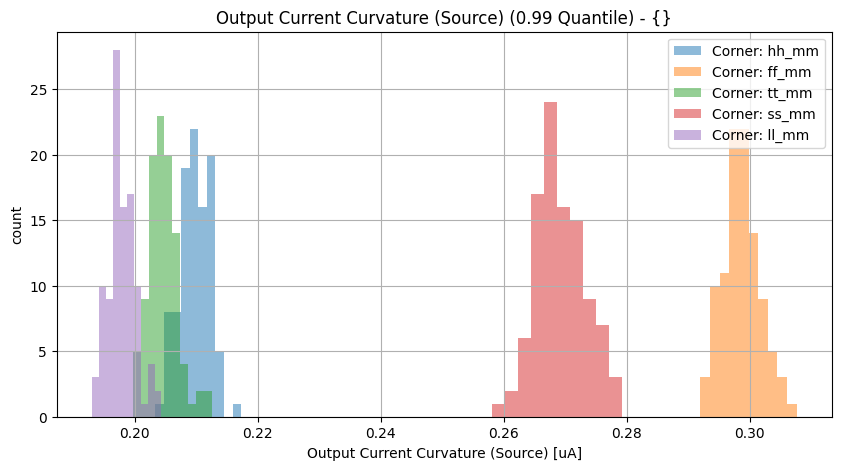
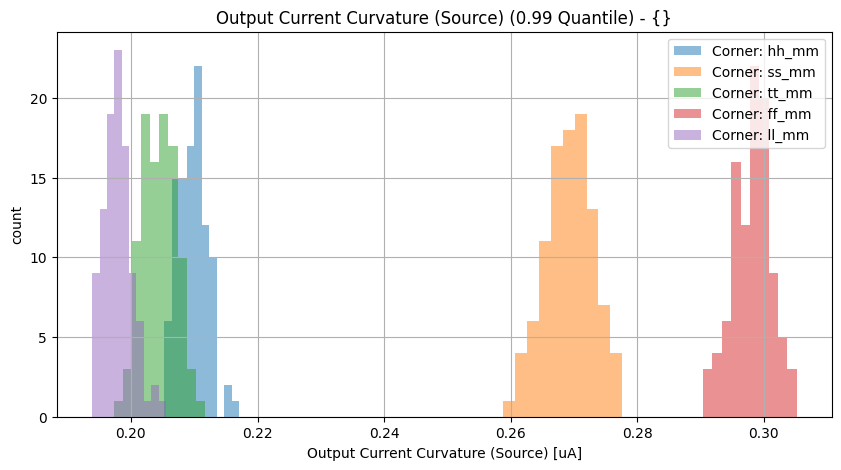
Jenkins update

diff --git a/vthref/vthref/Readme.md b/vthref/vthref/Readme.md
@@ -1,10 +1,10 @@
-23.02.2022, 19:07:27
+23.02.2022, 19:21:28
 
 # Vth Current Reference
 
-10 uA current reference.
+10 uA current reference with source- and sink-port.
 
-![placeholder](resources/img-placeholder.png "Placeholder")
+![vthref](resources/vthref.png "vthref")
 
 <br>
 
@@ -30,8 +30,8 @@ LVS-state: Netlists match uniquely.<br>
 
 | Parameter | Min (Spec. / Sim.) |      | Max (Sim. / Spec.) | Unit | Checks (total/pass/fail/NaN) | Comment |
 | :-------- | -----------------: | :--: | :----------------- | :--- | :--------------------------- | ------- |
-| Output Current Curvature (Sink) | 0.0 / 0.191 | <svg height="20" width="150"><polyline points="3.0,3,3.0,17,147.0,17,147.0,3" style="fill:none;stroke:gray;stroke-width:1" /><polyline points="75.0,10.0,75.0,17" style="fill:none;stroke:gray;stroke-width:1" /><polyline points="30.524289600000003,10.0,47.5849344,10.0" style="stroke:green;stroke-width:2" /><circle cx="30.524289600000003" cy="10.0" r="3" style="fill:green;stroke:green;stroke-width:0" /><circle cx="47.5849344" cy="10.0" r="3" style="fill:green;stroke:green;stroke-width:0" /></svg> | 0.31 / 1.0 | uA | 500/100.0%/0.0%/0.0% |  |
-| Output Current Curvature (Source) | 0.0 / 0.193 | <svg height="20" width="150"><polyline points="3.0,3,3.0,17,147.0,17,147.0,3" style="fill:none;stroke:gray;stroke-width:1" /><polyline points="75.0,10.0,75.0,17" style="fill:none;stroke:gray;stroke-width:1" /><polyline points="30.8026704,10.0,47.295278399999994,10.0" style="stroke:green;stroke-width:2" /><circle cx="30.8026704" cy="10.0" r="3" style="fill:green;stroke:green;stroke-width:0" /><circle cx="47.295278399999994" cy="10.0" r="3" style="fill:green;stroke:green;stroke-width:0" /></svg> | 0.308 / 1.0 | uA | 500/100.0%/0.0%/0.0% |  |
+| Output Current Curvature (Sink) | 0.0 / 0.191 | <svg height="20" width="150"><polyline points="3.0,3,3.0,17,147.0,17,147.0,3" style="fill:none;stroke:gray;stroke-width:1" /><polyline points="75.0,10.0,75.0,17" style="fill:none;stroke:gray;stroke-width:1" /><polyline points="30.466344000000003,10.0,47.2623312,10.0" style="stroke:green;stroke-width:2" /><circle cx="30.466344000000003" cy="10.0" r="3" style="fill:green;stroke:green;stroke-width:0" /><circle cx="47.2623312" cy="10.0" r="3" style="fill:green;stroke:green;stroke-width:0" /></svg> | 0.307 / 1.0 | uA | 500/100.0%/0.0%/0.0% |  |
+| Output Current Curvature (Source) | 0.0 / 0.194 | <svg height="20" width="150"><polyline points="3.0,3,3.0,17,147.0,17,147.0,3" style="fill:none;stroke:gray;stroke-width:1" /><polyline points="75.0,10.0,75.0,17" style="fill:none;stroke:gray;stroke-width:1" /><polyline points="30.917323200000002,10.0,46.9452864,10.0" style="stroke:green;stroke-width:2" /><circle cx="30.917323200000002" cy="10.0" r="3" style="fill:green;stroke:green;stroke-width:0" /><circle cx="46.9452864" cy="10.0" r="3" style="fill:green;stroke:green;stroke-width:0" /></svg> | 0.305 / 1.0 | uA | 500/100.0%/0.0%/0.0% |  |
 
 <br>
 
@@ -48,8 +48,8 @@ LVS-state: Netlists match uniquely.<br>
 
 | Parameter | Min (Spec. / Sim.) |      | Max (Sim. / Spec.) | Unit | Checks (total/pass/fail/NaN) | Comment |
 | :-------- | -----------------: | :--: | :----------------- | :--- | :--------------------------- | ------- |
-| Output Current Curvature (Sink) | 0.0 / 0.194 | <svg height="20" width="150"><polyline points="3.0,3,3.0,17,147.0,17,147.0,3" style="fill:none;stroke:gray;stroke-width:1" /><polyline points="75.0,10.0,75.0,17" style="fill:none;stroke:gray;stroke-width:1" /><polyline points="30.8878176,10.0,46.1965728,10.0" style="stroke:green;stroke-width:2" /><circle cx="30.8878176" cy="10.0" r="3" style="fill:green;stroke:green;stroke-width:0" /><circle cx="46.1965728" cy="10.0" r="3" style="fill:green;stroke:green;stroke-width:0" /></svg> | 0.3 / 1.0 | uA | 500/100.0%/0.0%/0.0% |  |
-| Output Current Curvature (Source) | 0.0 / 0.196 | <svg height="20" width="150"><polyline points="3.0,3,3.0,17,147.0,17,147.0,3" style="fill:none;stroke:gray;stroke-width:1" /><polyline points="75.0,10.0,75.0,17" style="fill:none;stroke:gray;stroke-width:1" /><polyline points="31.236887999999997,10.0,48.0748224,10.0" style="stroke:green;stroke-width:2" /><circle cx="31.236887999999997" cy="10.0" r="3" style="fill:green;stroke:green;stroke-width:0" /><circle cx="48.0748224" cy="10.0" r="3" style="fill:green;stroke:green;stroke-width:0" /></svg> | 0.313 / 1.0 | uA | 500/100.0%/0.0%/0.0% |  |
+| Output Current Curvature (Sink) | 0.0 / 0.193 | <svg height="20" width="150"><polyline points="3.0,3,3.0,17,147.0,17,147.0,3" style="fill:none;stroke:gray;stroke-width:1" /><polyline points="75.0,10.0,75.0,17" style="fill:none;stroke:gray;stroke-width:1" /><polyline points="30.8618112,10.0,46.4695968,10.0" style="stroke:green;stroke-width:2" /><circle cx="30.8618112" cy="10.0" r="3" style="fill:green;stroke:green;stroke-width:0" /><circle cx="46.4695968" cy="10.0" r="3" style="fill:green;stroke:green;stroke-width:0" /></svg> | 0.302 / 1.0 | uA | 500/100.0%/0.0%/0.0% |  |
+| Output Current Curvature (Source) | 0.0 / 0.198 | <svg height="20" width="150"><polyline points="3.0,3,3.0,17,147.0,17,147.0,3" style="fill:none;stroke:gray;stroke-width:1" /><polyline points="75.0,10.0,75.0,17" style="fill:none;stroke:gray;stroke-width:1" /><polyline points="31.5381936,10.0,48.2306592,10.0" style="stroke:green;stroke-width:2" /><circle cx="31.5381936" cy="10.0" r="3" style="fill:green;stroke:green;stroke-width:0" /><circle cx="48.2306592" cy="10.0" r="3" style="fill:green;stroke:green;stroke-width:0" /></svg> | 0.314 / 1.0 | uA | 500/100.0%/0.0%/0.0% |  |
 
 <br>
 

diff --git a/vthref/vthref/specReport.md b/vthref/vthref/specReport.md
@@ -12,8 +12,8 @@
 
 | Parameter | Min (Spec. / Sim.) |      | Max (Sim. / Spec.) | Unit | Checks (total/pass/fail/NaN) | Comment |
 | :-------- | -----------------: | :--: | :----------------- | :--- | :--------------------------- | ------- |
-| Output Current Curvature (Sink) | 0.0 / 0.191 | <svg height="20" width="150"><polyline points="3.0,3,3.0,17,147.0,17,147.0,3" style="fill:none;stroke:gray;stroke-width:1" /><polyline points="75.0,10.0,75.0,17" style="fill:none;stroke:gray;stroke-width:1" /><polyline points="30.524289600000003,10.0,47.5849344,10.0" style="stroke:green;stroke-width:2" /><circle cx="30.524289600000003" cy="10.0" r="3" style="fill:green;stroke:green;stroke-width:0" /><circle cx="47.5849344" cy="10.0" r="3" style="fill:green;stroke:green;stroke-width:0" /></svg> | 0.31 / 1.0 | uA | 500/100.0%/0.0%/0.0% |  |
-| Output Current Curvature (Source) | 0.0 / 0.193 | <svg height="20" width="150"><polyline points="3.0,3,3.0,17,147.0,17,147.0,3" style="fill:none;stroke:gray;stroke-width:1" /><polyline points="75.0,10.0,75.0,17" style="fill:none;stroke:gray;stroke-width:1" /><polyline points="30.8026704,10.0,47.295278399999994,10.0" style="stroke:green;stroke-width:2" /><circle cx="30.8026704" cy="10.0" r="3" style="fill:green;stroke:green;stroke-width:0" /><circle cx="47.295278399999994" cy="10.0" r="3" style="fill:green;stroke:green;stroke-width:0" /></svg> | 0.308 / 1.0 | uA | 500/100.0%/0.0%/0.0% |  |
+| Output Current Curvature (Sink) | 0.0 / 0.191 | <svg height="20" width="150"><polyline points="3.0,3,3.0,17,147.0,17,147.0,3" style="fill:none;stroke:gray;stroke-width:1" /><polyline points="75.0,10.0,75.0,17" style="fill:none;stroke:gray;stroke-width:1" /><polyline points="30.466344000000003,10.0,47.2623312,10.0" style="stroke:green;stroke-width:2" /><circle cx="30.466344000000003" cy="10.0" r="3" style="fill:green;stroke:green;stroke-width:0" /><circle cx="47.2623312" cy="10.0" r="3" style="fill:green;stroke:green;stroke-width:0" /></svg> | 0.307 / 1.0 | uA | 500/100.0%/0.0%/0.0% |  |
+| Output Current Curvature (Source) | 0.0 / 0.194 | <svg height="20" width="150"><polyline points="3.0,3,3.0,17,147.0,17,147.0,3" style="fill:none;stroke:gray;stroke-width:1" /><polyline points="75.0,10.0,75.0,17" style="fill:none;stroke:gray;stroke-width:1" /><polyline points="30.917323200000002,10.0,46.9452864,10.0" style="stroke:green;stroke-width:2" /><circle cx="30.917323200000002" cy="10.0" r="3" style="fill:green;stroke:green;stroke-width:0" /><circle cx="46.9452864" cy="10.0" r="3" style="fill:green;stroke:green;stroke-width:0" /></svg> | 0.305 / 1.0 | uA | 500/100.0%/0.0%/0.0% |  |
 
 <br>
 
@@ -30,7 +30,7 @@
 
 | Parameter | Min (Spec. / Sim.) |      | Max (Sim. / Spec.) | Unit | Checks (total/pass/fail/NaN) | Comment |
 | :-------- | -----------------: | :--: | :----------------- | :--- | :--------------------------- | ------- |
-| Output Current Curvature (Sink) | 0.0 / 0.194 | <svg height="20" width="150"><polyline points="3.0,3,3.0,17,147.0,17,147.0,3" style="fill:none;stroke:gray;stroke-width:1" /><polyline points="75.0,10.0,75.0,17" style="fill:none;stroke:gray;stroke-width:1" /><polyline points="30.8878176,10.0,46.1965728,10.0" style="stroke:green;stroke-width:2" /><circle cx="30.8878176" cy="10.0" r="3" style="fill:green;stroke:green;stroke-width:0" /><circle cx="46.1965728" cy="10.0" r="3" style="fill:green;stroke:green;stroke-width:0" /></svg> | 0.3 / 1.0 | uA | 500/100.0%/0.0%/0.0% |  |
-| Output Current Curvature (Source) | 0.0 / 0.196 | <svg height="20" width="150"><polyline points="3.0,3,3.0,17,147.0,17,147.0,3" style="fill:none;stroke:gray;stroke-width:1" /><polyline points="75.0,10.0,75.0,17" style="fill:none;stroke:gray;stroke-width:1" /><polyline points="31.236887999999997,10.0,48.0748224,10.0" style="stroke:green;stroke-width:2" /><circle cx="31.236887999999997" cy="10.0" r="3" style="fill:green;stroke:green;stroke-width:0" /><circle cx="48.0748224" cy="10.0" r="3" style="fill:green;stroke:green;stroke-width:0" /></svg> | 0.313 / 1.0 | uA | 500/100.0%/0.0%/0.0% |  |
+| Output Current Curvature (Sink) | 0.0 / 0.193 | <svg height="20" width="150"><polyline points="3.0,3,3.0,17,147.0,17,147.0,3" style="fill:none;stroke:gray;stroke-width:1" /><polyline points="75.0,10.0,75.0,17" style="fill:none;stroke:gray;stroke-width:1" /><polyline points="30.8618112,10.0,46.4695968,10.0" style="stroke:green;stroke-width:2" /><circle cx="30.8618112" cy="10.0" r="3" style="fill:green;stroke:green;stroke-width:0" /><circle cx="46.4695968" cy="10.0" r="3" style="fill:green;stroke:green;stroke-width:0" /></svg> | 0.302 / 1.0 | uA | 500/100.0%/0.0%/0.0% |  |
+| Output Current Curvature (Source) | 0.0 / 0.198 | <svg height="20" width="150"><polyline points="3.0,3,3.0,17,147.0,17,147.0,3" style="fill:none;stroke:gray;stroke-width:1" /><polyline points="75.0,10.0,75.0,17" style="fill:none;stroke:gray;stroke-width:1" /><polyline points="31.5381936,10.0,48.2306592,10.0" style="stroke:green;stroke-width:2" /><circle cx="31.5381936" cy="10.0" r="3" style="fill:green;stroke:green;stroke-width:0" /><circle cx="48.2306592" cy="10.0" r="3" style="fill:green;stroke:green;stroke-width:0" /></svg> | 0.314 / 1.0 | uA | 500/100.0%/0.0%/0.0% |  |
 
 <br>

diff --git a/vthref/vthref/docReport.md b/vthref/vthref/docReport.md
@@ -1,8 +1,8 @@
 # Vth Current Reference
 
-10 uA current reference.
+10 uA current reference with source- and sink-port.
 
-![placeholder](resources/img-placeholder.png "Placeholder")
+![vthref](resources/vthref.png "vthref")
 
 <br>
 

diff --git a/bmbg/bmbgota/Readme.md b/bmbg/bmbgota/Readme.md
@@ -1,4 +1,4 @@
-23.02.2022, 19:07:27
+23.02.2022, 19:21:28
 
 # Beta-Multiplier Bandgap OTA
 

diff --git a/bmbg/bmbg/Readme.md b/bmbg/bmbg/Readme.md
@@ -1,4 +1,4 @@
-23.02.2022, 19:07:27
+23.02.2022, 19:21:28
 
 # Beta-Multiplier Bandgap
 

diff --git a/riosc/riosc/Readme.md b/riosc/riosc/Readme.md
@@ -1,4 +1,4 @@
-23.02.2022, 19:07:27
+23.02.2022, 19:21:28
 
 # Ring Oscillator
 
